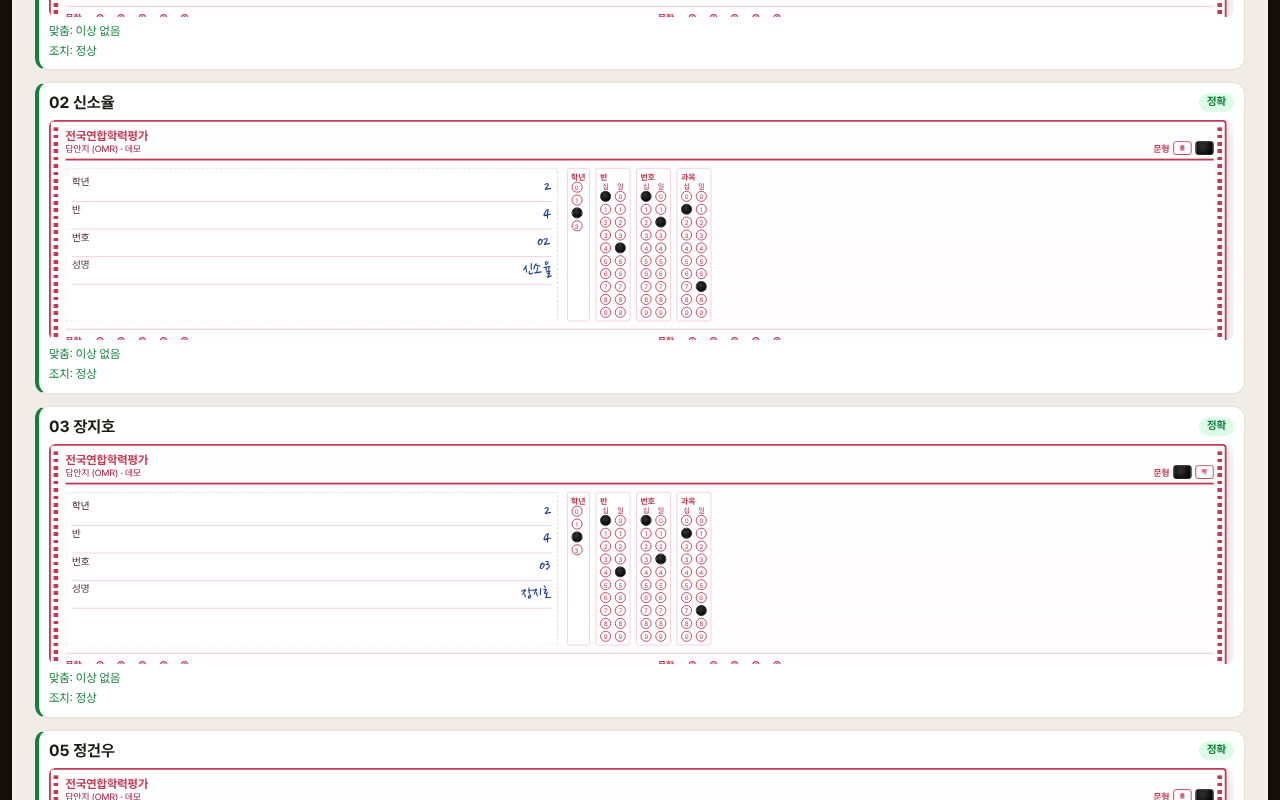
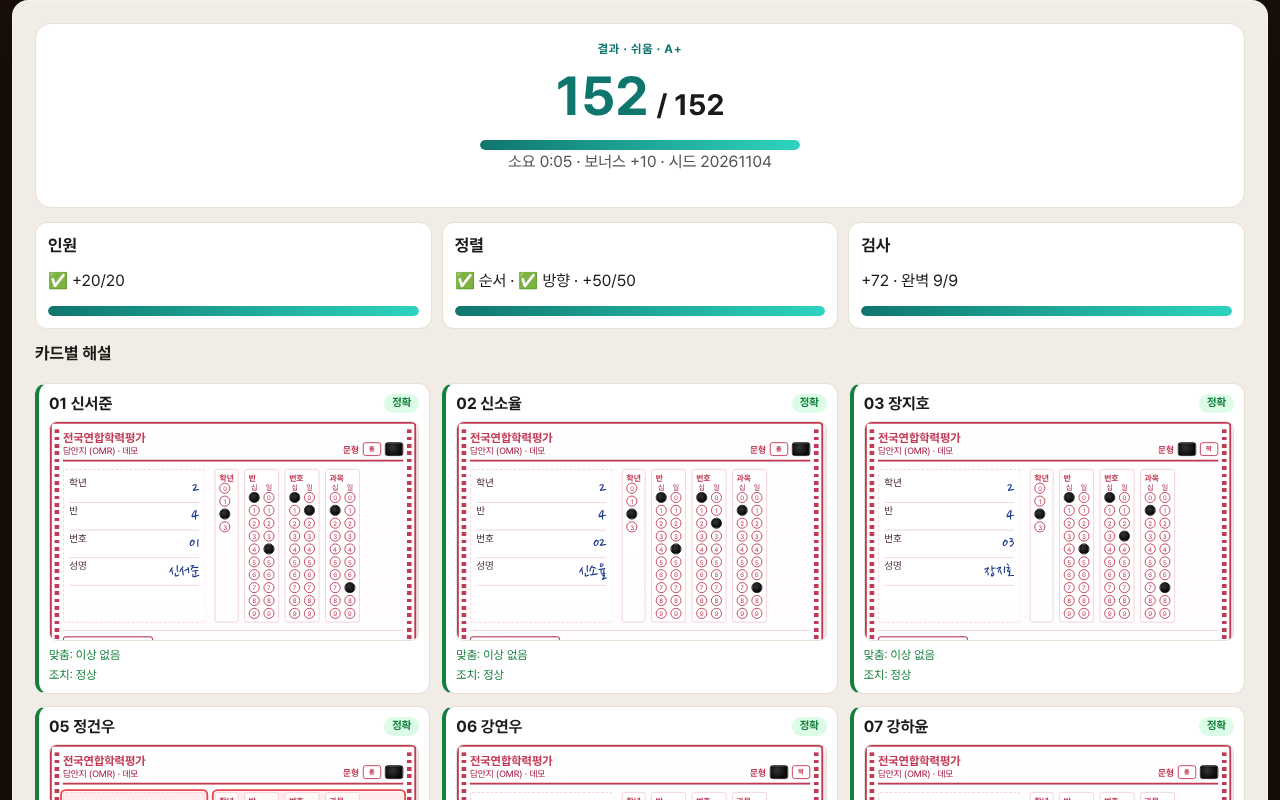
Round: results score meters, compact previews, magnifier content verified
- Score bar and category meters on results; 2-col card grid
- Compact OMR mini previews; e2e scrolls to hero for 11 shot
- Magnifier clone confirmed to include OMR text under lens

Changed region(s): [[0.0, 0.0, 1.0, 1.0], [0.75, 0.6875, 0.7812, 0.7188], [0.6562, 0.2812, 0.6875, 0.3125]]

diff --git a/src/main.ts b/src/main.ts
@@ -947,7 +947,7 @@ function renderResults() {
   <header><b>${String(st.number).padStart(2, '0')} ${st.name}</b>
     <span class="tag ${cs.perfect ? 'good' : 'bad'}">${cs.perfect ? '정확' : '미흡'}</span>
   </header>
-  <div class="result-mini">${renderOmrFront(card, { student: st, highlight: hl, compact: false })}</div>
+  <div class="result-mini">${renderOmrFront(card, { student: st, highlight: hl, compact: true })}</div>
   <div class="explain hit">맞춤: ${cs.hit.map((e) => ERROR_LABELS[e]).join(', ') || '—'}</div>
   ${cs.missed.length ? `<div class="explain miss">놓침: ${cs.missed.map((e) => `${ERROR_LABELS[e]} — ${ERROR_HINTS[e]}`).join(' / ')}</div>` : ''}
   ${cs.falsePositive.length ? `<div class="explain fp">잘못 선택: ${cs.falsePositive.map((e) => ERROR_LABELS[e]).join(', ')}</div>` : ''}
@@ -963,15 +963,24 @@ function renderResults() {
   <div class="score-hero">
     <p class="eyebrow">결과 · ${DIFFICULTIES[d.config.difficulty].label} · ${grade}${s.timedOut ? ' · 시간초과' : ''}</p>
     <h1><span class="score-num">${s.total}</span> <small>/ ${s.maxTotal}</small></h1>
+    <div class="score-bar" aria-hidden="true"><i style="width:${Math.round(ratio*100)}%"></i></div>
     <p class="lead">소요 ${fmtTime(s.timeSeconds)} · 보너스 +${s.timeBonus} · 시드 ${d.config.seed}</p>
   </div>
   <div class="result-grid">
-    <div class="result-box"><h2>인원</h2><p>${s.headcountOk ? '✅' : '❌'} +${s.headcountPoints}/20</p></div>
-    <div class="result-box"><h2>정렬</h2>
-      <p>${s.sortOrderOk ? '✅' : '❌'} 순서 · ${s.sortOrientationOk ? '✅' : '❌'} 방향 · +${s.sortPoints}/50</p>
+    <div class="result-box">
+      <h2>인원</h2>
+      <p>${s.headcountOk ? '✅' : '❌'} +${s.headcountPoints}/20</p>
+      <div class="meter" aria-hidden="true"><i style="width:${(s.headcountPoints/20)*100}%"></i></div>
     </div>
-    <div class="result-box"><h2>검사</h2>
+    <div class="result-box">
+      <h2>정렬</h2>
+      <p>${s.sortOrderOk ? '✅' : '❌'} 순서 · ${s.sortOrientationOk ? '✅' : '❌'} 방향 · +${s.sortPoints}/50</p>
+      <div class="meter" aria-hidden="true"><i style="width:${(s.sortPoints/50)*100}%"></i></div>
+    </div>
+    <div class="result-box">
+      <h2>검사</h2>
       <p>+${s.inspectionPoints} · 완벽 ${s.inspection.filter((c) => c.perfect).length}/${s.inspection.length}</p>
+      <div class="meter" aria-hidden="true"><i style="width:${s.inspection.length ? (s.inspection.filter((c)=>c.perfect).length/s.inspection.length)*100 : 0}%"></i></div>
     </div>
   </div>
   <div class="result-list"><h2>카드별 해설</h2>${rows}</div>

diff --git a/src/style.css b/src/style.css
@@ -826,3 +826,17 @@ body.stage-headcount .shell-main {
   .thumb-name { font-size: 26px !important; }
   .desk-props { display: none; }
 }
+
+.score-bar, .meter {
+  height: 10px; border-radius: 999px; background: #e7e5e4; overflow: hidden; margin: 10px auto 0; max-width: 320px;
+}
+.meter { max-width: none; margin-top: 8px; }
+.score-bar i, .meter i {
+  display: block; height: 100%; background: linear-gradient(90deg, #0f766e, #2dd4bf); border-radius: inherit;
+}
+.result-mini { max-height: 220px; overflow: hidden; border: 1px solid #e7e0d4; border-radius: 8px; background: #fff; }
+.result-mini .omr-card { transform: scale(0.92); transform-origin: top left; width: 108%; }
+.result-list { display: grid; grid-template-columns: repeat(auto-fill, minmax(340px, 1fr)); gap: 12px; }
+.result-list > h2 { grid-column: 1 / -1; }
+.result-card { margin: 0; }
+.results-panel .score-hero { padding: 18px 12px; background: #fff; border: 1px solid #e7e0d4; border-radius: 16px; }

diff --git a/docs/issues/0021-results-meters-compact.md b/docs/issues/0021-results-meters-compact.md
@@ -1,0 +1,12 @@
+# 0021 Results meters · compact card previews
+
+## Critique
+
+- 11-results.png scrolled into the middle of card explanations — score hero missing from shot.
+- Result list was a tall single column with full OMR sheets → sparse vertical layout.
+
+## Fixes
+
+1. E2E scrolls to score hero before capturing 11-results.png.
+2. Score bar + per-category meters on results.
+3. Compact OMR previews; 2-column result card grid; clipped mini height.
